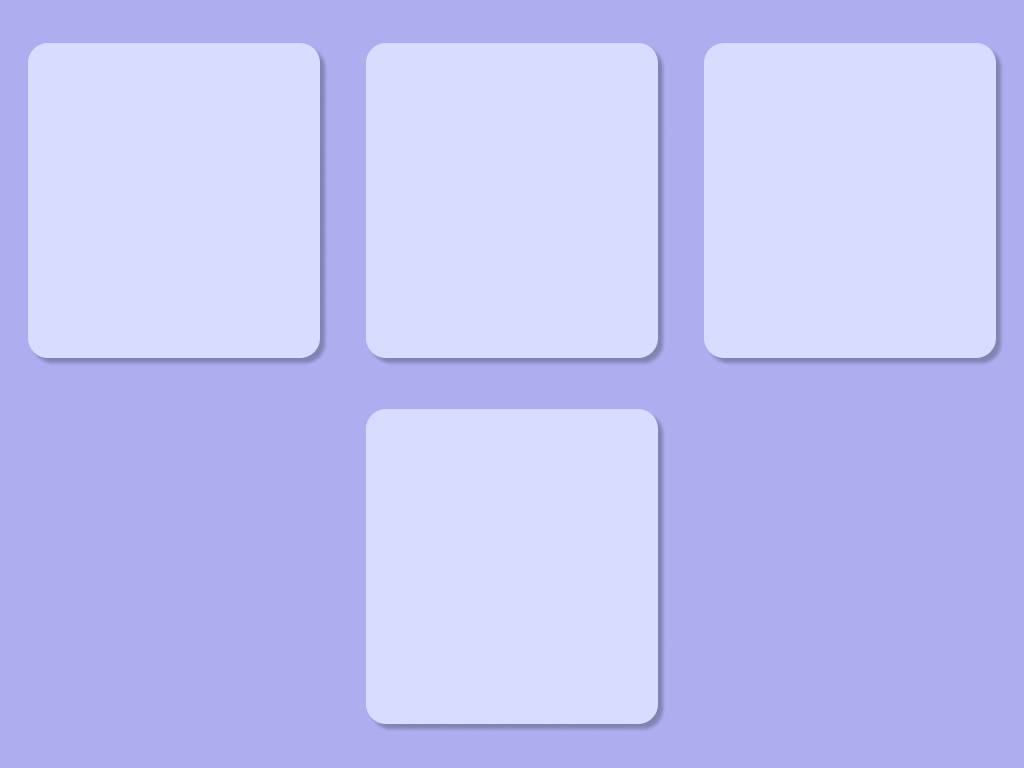
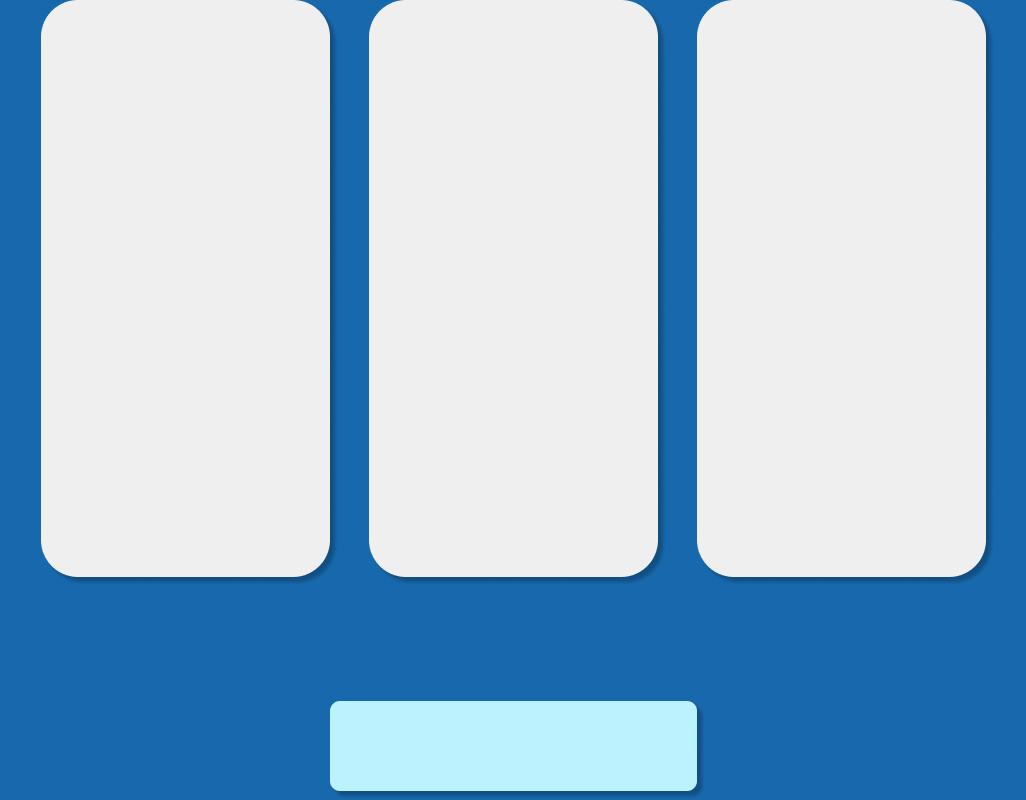
Implemented UI
Button behavior is still pending

diff --git a/main_ui.py b/main_ui.py
@@ -3,7 +3,12 @@ from tkinter import *
 def select_best_candidate():
     pass
 
-BACKGROUND_COLOR = "#AEADF0"
+BACKGROUND_COLOR = "#1768AC"
+PANEL_BACKGROUND_COLOR = "#EFEFEF"
+BC_PANEL_BACKGROUND_COLOR = "#BBF2FD"
+FONT = ("Calibri", 20)
+FONT_BOLD = ("Calibri", 30, "bold")
+ENTRY_WIDTH = 5
 
 window = Tk()
 window.title("Decision Making")
@@ -13,58 +18,60 @@ canvas_bg_img = PhotoImage(file="res/background.png")
 calculate_btn_img = PhotoImage(file="res/calculate_button.png")
 
 
-canvas = Canvas(height=768, width=1024)
-# canvas_background = canvas.create_image(530, 400, image=canvas_bg_img)
+canvas = Canvas(height=800, width=1024)
+canvas_background = canvas.create_image(513, 400, image=canvas_bg_img)
 canvas.config(background=BACKGROUND_COLOR, highlightthickness=0)
 canvas.grid(row=0, column=0, rowspan=8, columnspan=6)
 
-# calculate_btn = Button(image=calculate_btn_img, highlightthickness=0, borderwidth=0, bg=BACKGROUND_COLOR, command=select_best_candidate)
-calculate_btn = Button(text="Calculate", highlightthickness=0, borderwidth=0, command=select_best_candidate)
-calculate_btn.grid(row=7, column=2, columnspan=2)
+default_values = [
+    [60, 4.9, 15, 2],
+    [45, 3.5, 12, 0.5],
+    [120, 3, 8, 0]
+]
 
-option_label = Label(text="Option 1")
-option_label.grid(row=0, column=0, columnspan=2)
-time_label = Label(text="Time:")
-time_label.grid(row=1, column=0)
-rating_label = Label(text="Rating:")
-rating_label.grid(row=2, column=0)
-price_label = Label(text="Price:")
-price_label.grid(row=3, column=0)
-fuel_label = Label(text="Fuel:")
-fuel_label.grid(row=4, column=0)
-score_label = Label(text="Score:")
-score_label.grid(row=5, column=0)
+candidates_fields_list = []
+for i in range(3):
+    candidate_fields = dict()
 
-option_label_2 = Label(text="Option 2")
-option_label_2.grid(row=0, column=2, columnspan=2)
-time_label_2 = Label(text="Time:")
-time_label_2.grid(row=1, column=2)
-rating_label_2 = Label(text="Rating:")
-rating_label_2.grid(row=2, column=2)
-price_label_2 = Label(text="Price:")
-price_label_2.grid(row=3, column=2)
-fuel_label_2 = Label(text="Fuel:")
-fuel_label_2.grid(row=4, column=2)
-score_label_2 = Label(text="Score:")
-score_label_2.grid(row=5, column=2)
+    candidate_fields['option'] = Label(text=f"Option {i+1}", background=PANEL_BACKGROUND_COLOR, font=FONT)
+    candidate_fields['option'].grid(row=0, column=2*i, columnspan=2)
 
-option_label_3 = Label(text="Option 3")
-option_label_3.grid(row=0, column=4, columnspan=2)
-time_label_3 = Label(text="Time:")
-time_label_3.grid(row=1, column=4)
-rating_label_3 = Label(text="Rating:")
-rating_label_3.grid(row=2, column=4)
-price_label_3 = Label(text="Price:")
-price_label_3.grid(row=3, column=4)
-fuel_label_3 = Label(text="Fuel:")
-fuel_label_3.grid(row=4, column=4)
-score_label_3 = Label(text="Score:")
-score_label_3.grid(row=5, column=4)
+    candidate_fields['time'] = Label(text="Time:     ", background=PANEL_BACKGROUND_COLOR, font=FONT)
+    candidate_fields['time'].grid(row=1, column=2*i, sticky='e')
+    candidate_fields['time_entry'] = Entry(width=ENTRY_WIDTH, font=FONT)
+    candidate_fields['time_entry'].grid(row=1, column=2*i+1, sticky='w')
+    candidate_fields['time_entry'].insert(0, default_values[i][0])
 
-bc_label_3 = Label(text="Best Option:")
-bc_label_3.grid(row=6, column=2)
-bc_label_3 = Label(text="Option X")
-bc_label_3.grid(row=6, column=3)
+    candidate_fields['rating'] = Label(text="Rating:     ", background=PANEL_BACKGROUND_COLOR, font=FONT)
+    candidate_fields['rating'].grid(row=2, column=2*i, sticky='e')
+    candidate_fields['rating_entry'] = Entry(width=ENTRY_WIDTH, font=FONT)
+    candidate_fields['rating_entry'].grid(row=2, column=2*i+1, sticky='w')
+    candidate_fields['rating_entry'].insert(0, default_values[i][1])
 
+    candidate_fields['price'] = Label(text="Price:     ", background=PANEL_BACKGROUND_COLOR, font=FONT)
+    candidate_fields['price'].grid(row=3, column=2*i, sticky='e')
+    candidate_fields['price_entry'] = Entry(width=ENTRY_WIDTH, font=FONT)
+    candidate_fields['price_entry'].grid(row=3, column=2*i+1, sticky='w')
+    candidate_fields['price_entry'].insert(0, default_values[i][2])
+
+    candidate_fields['fuel'] = Label(text="Fuel:     ", background=PANEL_BACKGROUND_COLOR, font=FONT)
+    candidate_fields['fuel'].grid(row=4, column=2*i, sticky='e')
+    candidate_fields['fuel_entry'] = Entry(width=ENTRY_WIDTH, font=FONT)
+    candidate_fields['fuel_entry'].grid(row=4, column=2*i+1, sticky='w')
+    candidate_fields['fuel_entry'].insert(0, default_values[i][3])
+
+    candidate_fields['score'] = Label(text="Score:     ", background=PANEL_BACKGROUND_COLOR, font=FONT)
+    candidate_fields['score'].grid(row=5, column=2*i, sticky='e')
+    candidate_fields['score_value'] = Label(text="0", background=PANEL_BACKGROUND_COLOR, font=FONT)
+    candidate_fields['score_value'].grid(row=5, column=2*i+1, sticky='w')
+
+    candidates_fields_list.append(candidate_fields)
+
+bc_label_3 = Label(text="Best: XXXXXXXXXXX", background=BC_PANEL_BACKGROUND_COLOR, font=FONT_BOLD)
+bc_label_3.grid(row=7, column=2,columnspan=2)
+
+calculate_btn = Button(image=calculate_btn_img, highlightthickness=0, borderwidth=0, bg=BACKGROUND_COLOR, activebackground=BACKGROUND_COLOR, command=select_best_candidate)
+# calculate_btn = Button(text="Calculate", highlightthickness=0, borderwidth=0, command=select_best_candidate, font=FONT)
+calculate_btn.grid(row=6, column=2, columnspan=2)
 
 window.mainloop()
